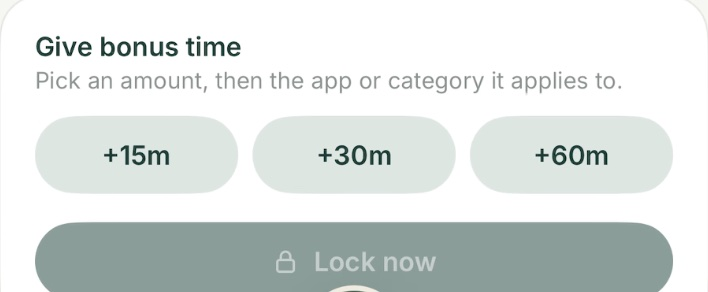
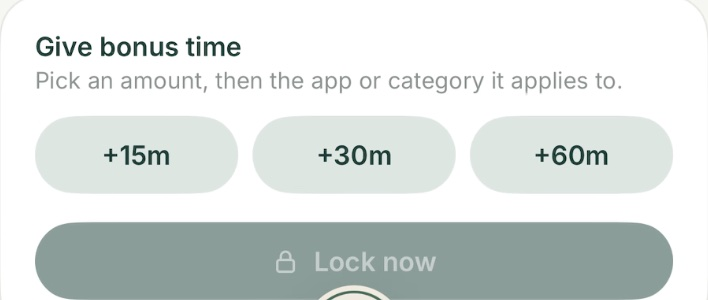
Fix stretched screenshots (height:auto on fluid images)

diff --git a/index.html b/index.html
@@ -280,12 +280,12 @@
         @media (max-width: 860px) { .features.four { grid-template-columns: repeat(2, 1fr); } }
         @media (max-width: 540px) { .features.four { grid-template-columns: 1fr; } }
         .media-card.photo { padding: 0; overflow: hidden; background: #10231d; border-color: #10231d; }
-        .media-card.photo img { width: 100%; display: block; }
+        .media-card.photo img { width: 100%; height: auto; display: block; }
         .media-card.photo.light { background: var(--white); border-color: var(--line); }
         .media-card.photo + .media-card.photo { margin-top: 16px; }
         .media-card.mini { margin-top: 26px; }
         .media-card .inner-img { border-radius: 16px; overflow: hidden; border: 1px solid var(--line); margin-bottom: 12px; }
-        .media-card .inner-img img { width: 100%; display: block; }
+        .media-card .inner-img img { width: 100%; height: auto; display: block; }
         .new-pill { display: inline-flex; align-items: center; gap: 6px; font-size: 12px; font-weight: 700; letter-spacing: .06em; text-transform: uppercase; color: #fff; background: var(--green); padding: 5px 11px; border-radius: 999px; margin-left: 10px; vertical-align: middle; }
         .release { display: grid; grid-template-columns: 1.1fr 1.6fr; gap: 40px; align-items: center; background: linear-gradient(160deg, #EFF3EC 0%, #E7EFE9 100%); border: 1px solid var(--line); border-radius: 32px; padding: 44px 48px; margin-top: 56px; }
         .release h3 { font-size: clamp(24px, 3vw, 32px); font-weight: 500; letter-spacing: -0.01em; line-height: 1.12; margin-bottom: 10px; }
@@ -299,7 +299,7 @@
         .gallery-wrap { position: relative; }
         .gallery { display: flex; gap: 22px; overflow-x: auto; scroll-snap-type: x mandatory; padding: 6px max(24px, calc((100vw - 1120px) / 2)) 28px; scroll-padding-left: max(24px, calc((100vw - 1120px) / 2)); -webkit-overflow-scrolling: touch; scrollbar-width: thin; scrollbar-color: var(--sage) transparent; }
         .gallery > figure { flex: 0 0 272px; scroll-snap-align: start; margin: 0; }
-        .gallery img { width: 100%; display: block; border-radius: 26px; box-shadow: var(--shadow); background: #0F3D34; }
+        .gallery img { width: 100%; height: auto; display: block; border-radius: 26px; box-shadow: var(--shadow); background: #0F3D34; }
         .gallery figcaption { text-align: center; font-size: 14px; font-weight: 600; margin-top: 14px; }
         .gallery-hint { text-align: center; font-size: 13px; color: var(--muted); margin-top: 4px; }
     </style>
@@ -487,7 +487,7 @@
             <div class="detail-media">
                 <div class="media-card">
                     <div class="inner-img">
-                        <img src="assets/screenshots/card-bonus.jpg" alt="Give bonus time in Clann: pick +15m, +30m, or +60m, then the app or category it applies to, or Lock now" width="708" height="292" loading="lazy">
+                        <img src="assets/screenshots/card-bonus.jpg" alt="Give bonus time in Clann: pick +15m, +30m, or +60m, then the app or category it applies to, or Lock now" width="708" height="300" loading="lazy">
                     </div>
                     <div class="ui-row">
                         <div class="ui-ico coral"><svg viewBox="0 0 24 24"><path d="M12 8v5M12 16h.01"/><circle cx="12" cy="12" r="9"/></svg></div>
